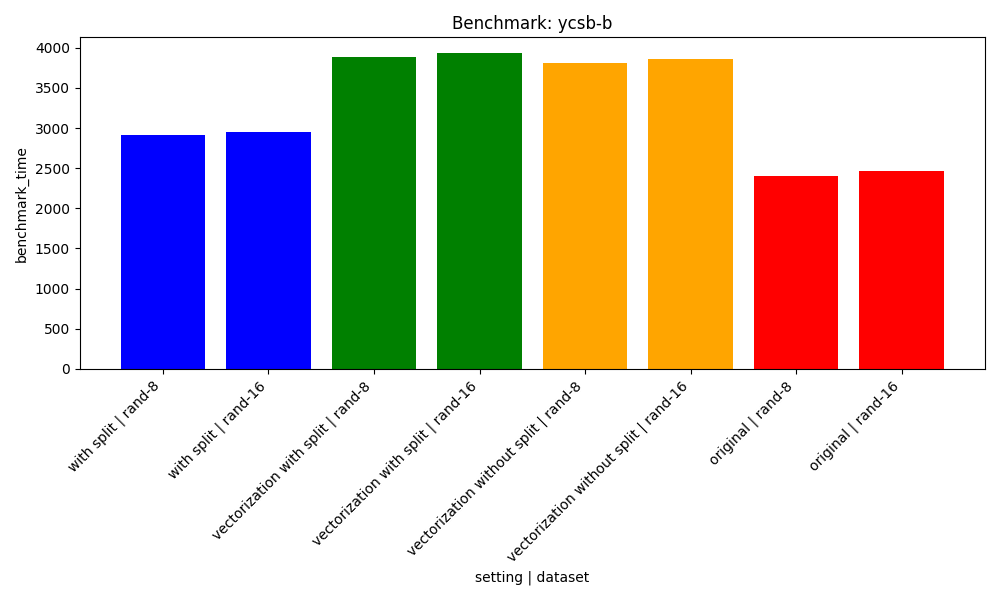
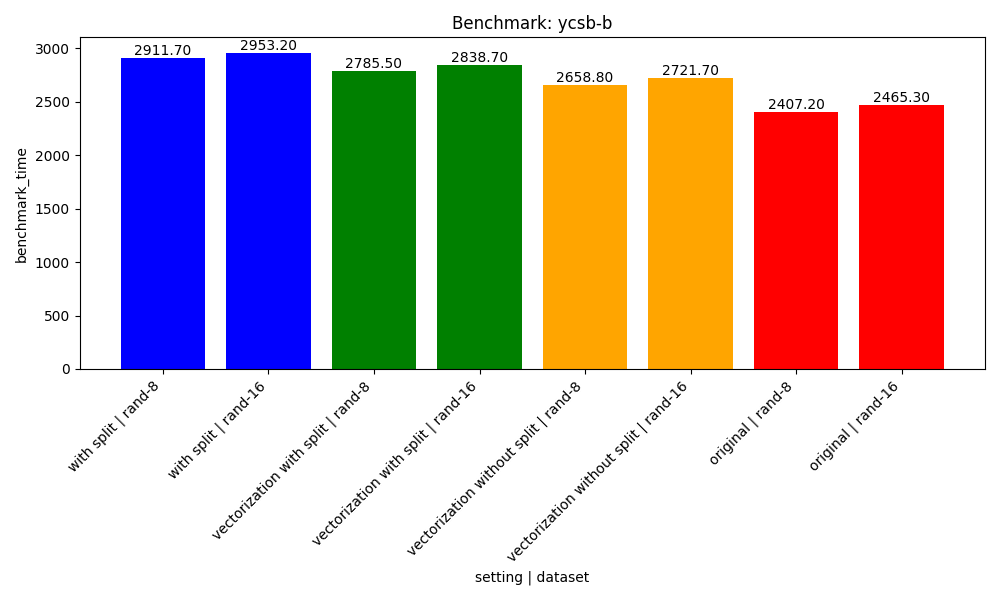
Update results

diff --git a/plot_benchmarks.py b/plot_benchmarks.py
@@ -34,7 +34,12 @@ def plot_benchmarks(csv_path, output_dir="benchmark_plots"):
         # Get colors for each bar based on setting
         colors = [COLOR_MAPPING[setting] for setting in group["setting"]]
 
-        plt.bar(x_labels, y_values, color=colors)
+        bars = plt.bar(x_labels, y_values, color=colors)
+        for bar, y in zip(bars, y_values):
+            plt.text(bar.get_x() + bar.get_width() / 2.0,
+                     bar.get_height(),
+                     f"{y:.2f}",
+                     ha="center", va="bottom")
         plt.xticks(rotation=45, ha="right")
         plt.ylabel("benchmark_time")
         plt.xlabel("setting | dataset")
